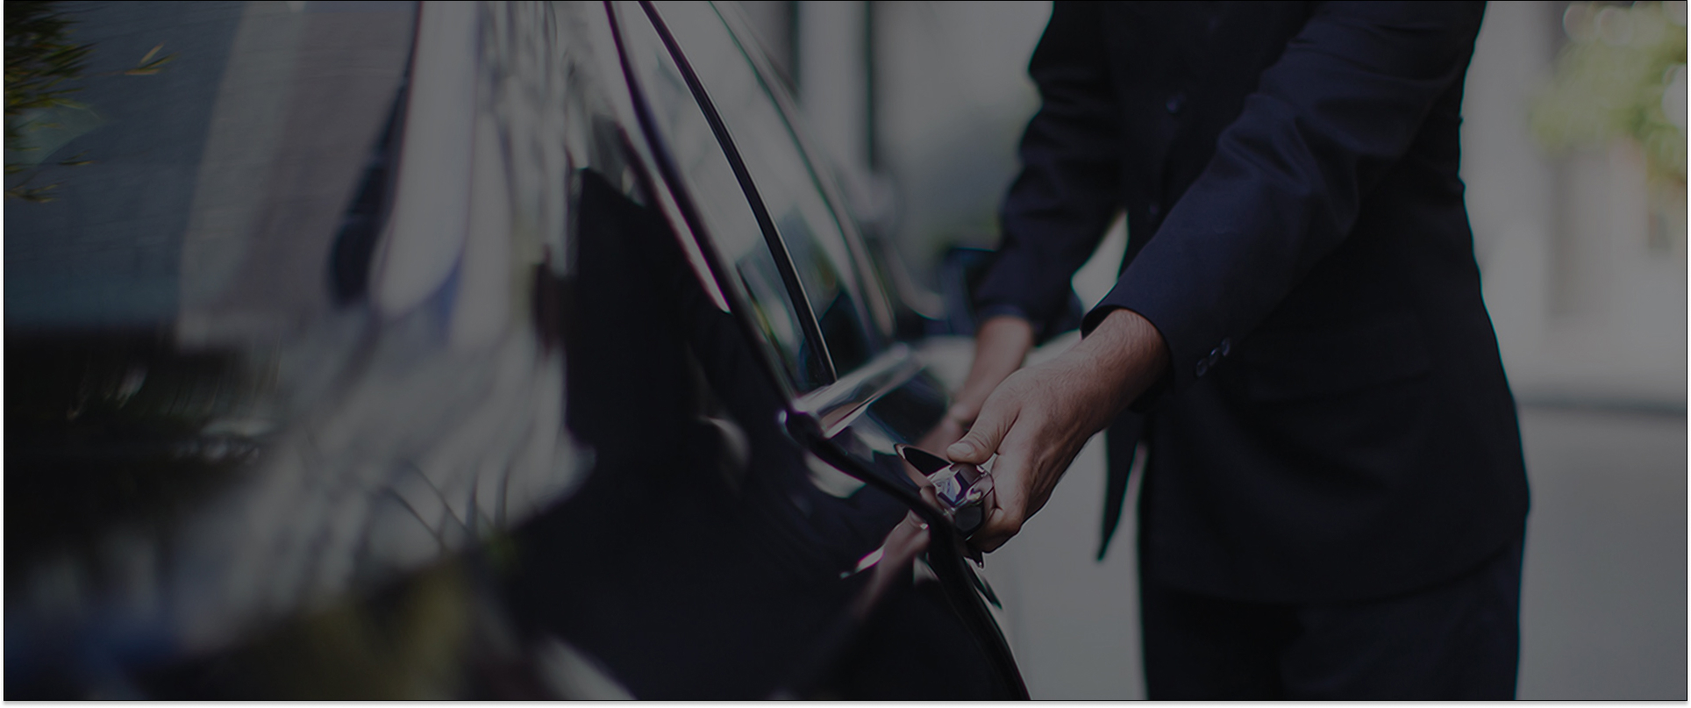
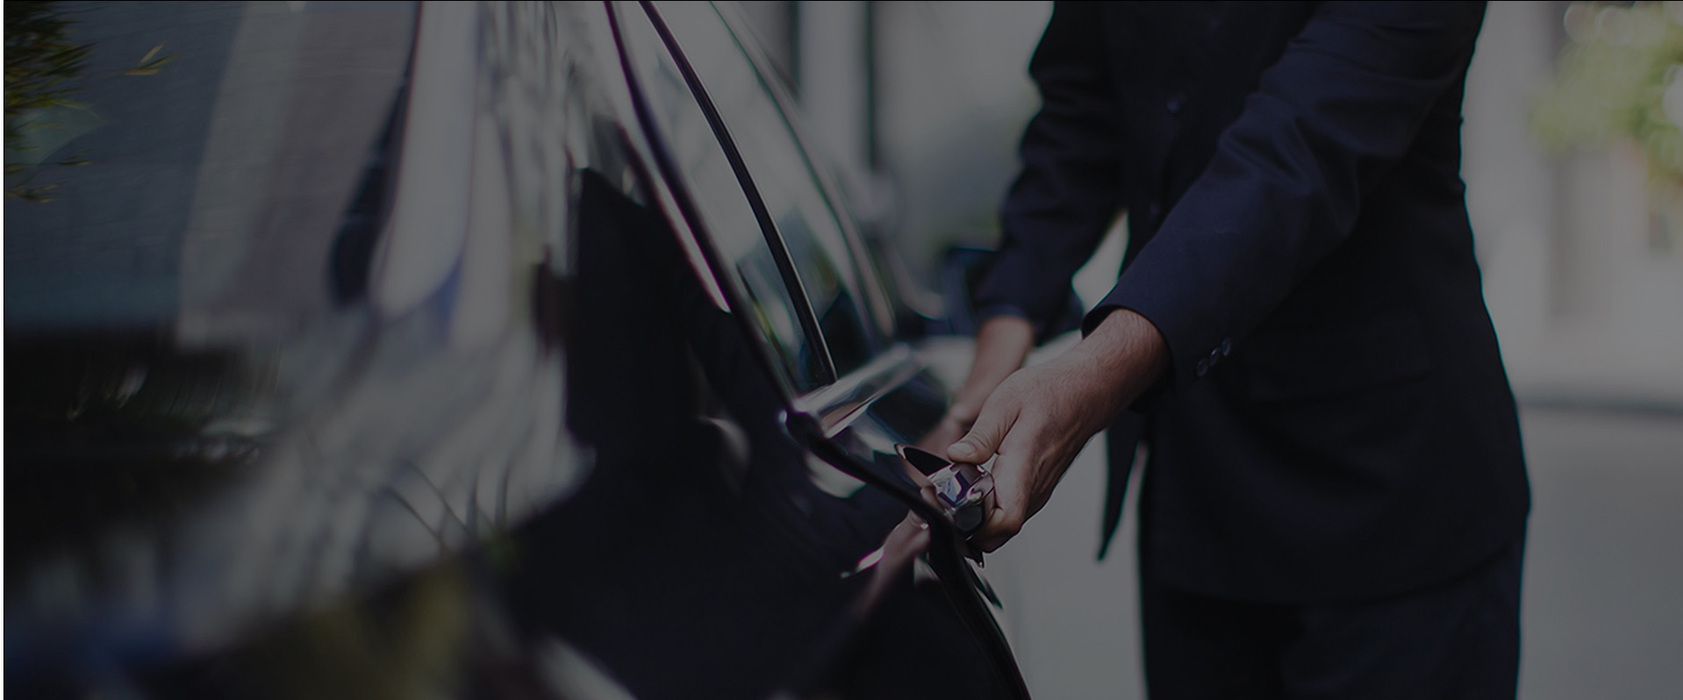
Изменил главный экран

diff --git a/css/style.min.css b/css/style.min.css
@@ -1,2 +1,2 @@
-*{font-family:'Roboto', sans-serif;margin:0;padding:0}body{max-width:100%}header{max-width:100%;position:relative}nav{height:50px;background:#212121;position:fixed;width:100%;z-index:2}.menu{display:-webkit-box;display:-ms-flexbox;display:flex;-webkit-box-pack:justify;-ms-flex-pack:justify;justify-content:space-between;padding:13px 70px;margin:0;list-style-type:none}.menu_link{font-weight:300;font-size:15px;color:#FFFFFF;text-decoration:none}.menu_link:hover{color:grey}.menu__item{border-right:2px dotted black;padding-right:28px}.menu__item:last-child{border-right:none}.hamburger{display:none}.subheader{height:134px;background-color:rgba(0,0,0,0.6);position:absolute;width:100%;padding-top:50px}.subheader_ref{display:block;font-style:normal;font-weight:normal;font-size:22px;line-height:12px;text-transform:uppercase;color:#FFFFFF;text-align:right;text-decoration:none;cursor:pointer;margin-top:7px}.subheader_ref:hover{color:#1EACC7}.subheader_logo{display:block;max-width:100%;margin-top:17px}.subheader_official{font-weight:200;font-size:13px;color:#FFFFFF;opacity:.5;margin-top:4px}.subheader_small{display:none}.subheader_call{font-weight:300;font-size:12px;text-align:right;color:#FFFFFF;margin-top:23px}.subheader_btn,.btn{width:172px;height:46px;margin-top:19px;background:-webkit-gradient(linear, left bottom, left top, from(#1EACC7), to(#4CE2FF));background:linear-gradient(0deg, #1EACC7 0%, #4CE2FF 100%);-webkit-box-shadow:inset 0px -3px 0px rgba(0,0,0,0.12);box-shadow:inset 0px -3px 0px rgba(0,0,0,0.12);border:none;border-radius:4px;font-style:normal;font-weight:normal;font-size:14px;line-height:46px;text-transform:uppercase;color:#FFFFFF;text-shadow:1px 1px 0px rgba(0,0,0,0.21);outline:none}.btn:hover{background:none;background-color:#fff;-webkit-transition:.5s ease;transition:.5s ease;color:#1EACC7}.promo{min-height:800px;background:url("../img/uber_bg.jpg") center center/cover no-repeat;padding:150px 0 185px 0}.promo_header{font-weight:900;font-size:60px;line-height:60px;text-align:center;text-transform:uppercase;color:#FFFFFF}.promo_subheader{margin-top:20px;font-weight:bold;font-size:36px;line-height:36px;text-align:center;text-transform:uppercase;color:#FFFFFF}.promo_text{font-style:normal;font-weight:normal;font-size:18px;line-height:24px;text-align:center;color:#FFFFFF;margin-top:16px}.promo_btn{margin:0 auto;margin-top:116px;width:259px;height:63px;font-size:18px;display:block}.title{margin-top:32px;font-style:normal;font-weight:bold;font-size:38px;text-align:center;text-transform:uppercase;color:#222222}.title_black{color:#FFFFFF;margin-top:37px}.subtitle{color:#212121;font-size:17px;font-weight:normal;text-align:center;margin-top:19px}.subtitle_black{margin-top:0px;color:#FFFFFF}.label{display:block;margin:0 auto;width:115px;height:27px;background:#000000;font-style:normal;font-weight:normal;font-size:11px;text-transform:uppercase;color:#FFFFFF;border:none;text-align:center;line-height:27px}.label_black{background:#fff;color:#070716}.adv{padding:20px 0 65px 0;width:100%}.adv .container{max-width:1064px;margin:0 auto;margin-top:16px;display:-webkit-box;display:-ms-flexbox;display:flex;-webkit-box-align:center;-ms-flex-align:center;align-items:center}.adv .col-md-2{display:-webkit-box;display:-ms-flexbox;display:flex;-webkit-box-pack:center;-ms-flex-pack:center;justify-content:center;-webkit-box-align:center;-ms-flex-align:center;align-items:center;margin-top:26px}.adv_item{background:#1EACC7;width:116px;height:116px;border-radius:50%;display:-webkit-box;display:-ms-flexbox;display:flex;-webkit-box-pack:center;-ms-flex-pack:center;justify-content:center;-webkit-box-align:center;-ms-flex-align:center;align-items:center;-ms-flex-item-align:center;align-self:center}.adv .adv_text{margin-top:26px;font-weight:300;font-size:15px;line-height:21px;color:#202020}.adv .adv_text span{font-weight:normal;font-size:17px;line-height:21px;color:#1EACC7}.mobile{min-height:864px;padding:46px 0 80px 0;background:url("../img/mobile_bg.png") center center/cover no-repeat}.mobile .row{margin-top:32px}.mobile_item{width:320px;height:280px;margin:0 auto;margin-bottom:19px;padding-top:92px;position:relative}.mobile_item_1{background:url("../img/card1.jpg")}.mobile_item_2{background:url("../img/card2.jpg")}.mobile_item_3{background:url("../img/card3.jpg")}.mobile_item_4{background:url("../img/card4.jpg")}.mobile_item_5{background:url("../img/card5.jpg")}.mobile_item_6{background:url("../img/card6.jpg")}.mobile_item_subtitle{font-size:24px;line-height:31px;text-align:center;text-transform:uppercase;color:#fff}.mobile_item_plus{display:-webkit-box;display:-ms-flexbox;display:flex;-webkit-box-pack:center;-ms-flex-pack:center;justify-content:center;-webkit-box-align:center;-ms-flex-align:center;align-items:center;width:29px;height:29px;background:#000000;border-radius:50%;position:absolute;bottom:34px;left:50%;-webkit-transform:translateX(-50%);transform:translateX(-50%);cursor:pointer}.mobile_item_plus:before{content:' ';display:block;width:14px;height:2px;background-color:#1EACC7;-webkit-transform:translateX(1px);transform:translateX(1px)}.mobile_item_plus::after{content:' ';display:block;width:2px;height:14px;background-color:#1EACC7;-webkit-transform:translateX(-7px);transform:translateX(-7px)}.mobile_item_plus:hover::before,.mobile_item_plus:hover::after{background-color:#fff}.car{min-height:900px;background:linear-gradient(45deg, #222, #222) left top/100% 500px no-repeat,url("../img/mobile_bg.png") center bottom/cover no-repeat;padding-top:57px}.car img{display:block;position:relative;margin:54px auto 0 auto;width:759px;height:auto;max-width:100%}.condition{padding:66px 0 87px 0}.condition .title{margin:40px auto 48px 0;line-height:38px}.condition_list{padding-right:58px}.condition_list_title{font-weight:normal;font-size:22px;line-height:24px;color:#1CA8C3;margin-bottom:20px;padding-top:60px;margin-top:-60px}.condition_list_title_red{color:#FF5656}.condition_list p{font-weight:300;font-size:17px;line-height:24px;color:#1CA8C3;margin-bottom:60px;margin-top:15px}.condition_list_menu{list-style-type:none;padding:0;padding-right:0px;padding-left:48px;margin:0;font-weight:300;font-size:17px;line-height:17px;color:#222222;position:relative}.condition_list_menu li{line-height:28px}.condition_list_menu li::before{content:'';display:block;width:21px;height:20px;background:url("../icons/check_blue.svg") center center/cover no-repeat;position:absolute;left:18px;-webkit-transform:translateY(5px);transform:translateY(5px)}.condition_list_menu_red li::before{background:url("../icons/check_red.svg") center center/cover no-repeat}.world{background-color:#080816}.world .container{background:url("../img/world_bg.jpg") center center/cover no-repeat;min-height:720px;padding:47px 0 50px 0;text-align:center}.world .container a{display:inline-block;color:#1FBAD6;text-decoration:none;margin:0 auto;text-transform:uppercase;margin-top:485px}.footer{display:-webkit-box;display:-ms-flexbox;display:flex;-webkit-box-pack:justify;-ms-flex-pack:justify;justify-content:space-between;min-height:148px;max-width:100%;background:#FFFFFF;-ms-flex-wrap:wrap;flex-wrap:wrap}.footer a{display:block;text-decoration:none}.footer_ss{display:-webkit-box;display:-ms-flexbox;display:flex;-webkit-box-pack:start;-ms-flex-pack:start;justify-content:start;-webkit-box-align:center;-ms-flex-align:center;align-items:center;width:330px}.footer_ss a:first-child{margin-left:20px}.footer_ss .ring{width:35px;height:35px;border-radius:100%;background-color:#070716;display:-webkit-box;display:-ms-flexbox;display:flex;-webkit-box-pack:center;-ms-flex-pack:center;justify-content:center;-webkit-box-align:center;-ms-flex-align:center;align-items:center;margin-left:6px}.footer_ss .ring span,.footer_ss .ring i{color:#fff;font-style:20px}.footer_link{display:-webkit-box;display:-ms-flexbox;display:flex;-webkit-box-pack:justify;-ms-flex-pack:justify;justify-content:space-between;-ms-flex-item-align:center;align-self:center;width:325px}.footer_link a:last-child{margin-right:25px}.footer_content{width:calc( 100% - 700px);display:-webkit-box;display:-ms-flexbox;display:flex;-webkit-box-orient:vertical;-webkit-box-direction:normal;-ms-flex-direction:column;flex-direction:column;-webkit-box-align:center;-ms-flex-align:center;align-items:center}.footer_content .line{width:301px;height:7px;background:#1FBAD6;margin-top:12px}.footer_content_title{display:-webkit-box;display:-ms-flexbox;display:flex;-webkit-box-orient:horizontal;-webkit-box-direction:normal;-ms-flex-direction:row;flex-direction:row;width:365px;-webkit-box-pack:justify;-ms-flex-pack:justify;justify-content:space-between;margin-top:32px}.footer_content_title a{font-weight:300;font-size:15px;text-transform:uppercase;color:#070716}.footer_content_subtitle{display:-webkit-box;display:-ms-flexbox;display:flex;-webkit-box-orient:horizontal;-webkit-box-direction:normal;-ms-flex-direction:row;flex-direction:row;-webkit-box-pack:justify;-ms-flex-pack:justify;justify-content:space-between;width:390px;margin-top:13px}.footer_content_subtitle a{font-weight:300;font-size:11px;text-transform:uppercase;color:#999999}.footer_content_language{font-weight:normal;font-size:11px;text-transform:uppercase;color:#1FBAD6;margin-top:15px}@media (max-width: 1199px){.menu_link{font-size:13px}.menu_item{padding-right:20px}.promo{min-height:0;padding:150px 0 100px 0}.promo_header{font-size:50px}.promo_subheader{font-size:30px}.promo_btn{margin-top:65px}.mobile_item{width:300px}.footer_link a{margin-bottom:10px;text-align:center}.footer_link a:last-child{margin-right:0}.footer_link{-webkit-box-orient:vertical;-webkit-box-direction:normal;-ms-flex-direction:column;flex-direction:column}.world .container{min-height:0}.world .container a{margin-top:300px}}@media (max-width: 991px){.menu{padding:13px 0}.menu_link{font-size:12px}.subheader_logo{margin-top:7px}.promo_header{font-size:38px}.mobile_item{width:200px;height:200px;padding:40px 5px 0 5px}.adv_item{-ms-flex-item-align:baseline;align-self:baseline;width:100px;height:100px}.car{min-height:0}.world .container a{margin-top:80px}.footer{-ms-flex-wrap:nowrap;flex-wrap:nowrap}.footer_ss{width:20%}.footer_link{width:20%}}@media (max-width: 767px){.menu{position:fixed;-webkit-box-orient:vertical;-webkit-box-direction:normal;-ms-flex-direction:column;flex-direction:column;-webkit-box-pack:center;-ms-flex-pack:center;justify-content:center;-webkit-box-align:center;-ms-flex-align:center;align-items:center;top:0;left:-100%;width:50%;height:100vh;padding:20px 15px;background-color:rgba(0,0,0,0.8);-webkit-transition:0.6s all;transition:0.6s all}.menu_active{left:0}.menu_item{padding-right:0;border:none;margin:10px 0;text-align:center;width:100%}.menu_link{display:block;font-size:20px}.hamburger{display:block;position:absolute;right:10px;top:50%;-webkit-transform:translateY(-50%);transform:translateY(-50%);width:20px;height:12px}.hamburger span{display:block;width:100%;height:2px;background-color:#fff;margin-bottom:2px;-webkit-transition:0.5s all;transition:0.5s all}.hamburger_active span{margin-bottom:-2px}.hamburger_active span:nth-child(1){-webkit-transform:translateY(3px) rotate(-45deg);transform:translateY(3px) rotate(-45deg)}.hamburger_active span:nth-child(2){display:none}.hamburger_active span:nth-child(3){-webkit-transform:translateY(3px) rotate(45deg);transform:translateY(3px) rotate(45deg)}}@media (max-width: 767px){.subheader{height:112px}.subheader_mini{display:none}.subheader_small{display:-webkit-box;display:-ms-flexbox;display:flex;-webkit-box-orient:vertical;-webkit-box-direction:normal;-ms-flex-direction:column;flex-direction:column;-ms-flex-pack:distribute;justify-content:space-around;height:62px}.subheader_official,.subheader_call{display:none}.subheader_ref{font-size:12px;text-align:center}.subheader_logo img{width:100%;margin-top:11px}.subheader_btn{display:block;margin:0 auto;width:108px;height:21px;font-size:10px;line-height:0;margin-top:-5px}.promo{padding-bottom:50px}.promo__btn{margin-top:35px}.footer{-webkit-box-orient:vertical;-webkit-box-direction:normal;-ms-flex-direction:column;flex-direction:column;-webkit-box-align:center;-ms-flex-align:center;align-items:center}.footer_ss{-webkit-box-pack:center;-ms-flex-pack:center;justify-content:center;width:80%;margin-top:15px}.footer_ss a:first-child{margin-left:0}.footer_content{-webkit-box-ordinal-group:0;-ms-flex-order:-1;order:-1;width:90%}.footer_content_title{-webkit-box-orient:horizontal;-webkit-box-direction:normal;-ms-flex-direction:row;flex-direction:row;-ms-flex-pack:distribute;justify-content:space-around;width:100%}.footer_content_subtitle{-ms-flex-wrap:wrap;flex-wrap:wrap;-webkit-box-orient:horizontal;-webkit-box-direction:normal;-ms-flex-direction:row;flex-direction:row;-ms-flex-pack:distribute;justify-content:space-around;width:100%}.footer_content_subtitle a{margin:0 5px}.footer_link{-webkit-box-orient:horizontal;-webkit-box-direction:normal;-ms-flex-direction:row;flex-direction:row;width:85%;margin-top:15px}}@media (max-width: 450px){.menu_active{width:85%}}@media (max-width: 360px){.footer_link{width:95%}.footer_content_title a{font-size:13px}.footer_content_subtitle{-webkit-box-pack:center;-ms-flex-pack:center;justify-content:center}}
+*{font-family:'Roboto', sans-serif;margin:0;padding:0}body{max-width:100%}header{max-width:100%;position:relative}nav{height:50px;background:#212121;position:fixed;width:100%;z-index:2}.menu{display:-webkit-box;display:-ms-flexbox;display:flex;-webkit-box-pack:justify;-ms-flex-pack:justify;justify-content:space-between;padding:13px 70px;margin:0;list-style-type:none}.menu_link{font-weight:300;font-size:15px;color:#FFFFFF;text-decoration:none}.menu_link:hover{color:grey}.menu__item{border-right:2px dotted black;padding-right:28px}.menu__item:last-child{border-right:none}.hamburger{display:none}.subheader{height:134px;background-color:rgba(0,0,0,0.6);position:absolute;width:100%;padding-top:50px}.subheader_ref{display:block;font-style:normal;font-weight:normal;font-size:22px;line-height:12px;text-transform:uppercase;color:#FFFFFF;text-align:right;text-decoration:none;cursor:pointer;margin-top:7px}.subheader_ref:hover{color:#1EACC7}.subheader_logo{display:block;max-width:100%;margin-top:17px}.subheader_official{font-weight:200;font-size:13px;color:#FFFFFF;opacity:.5;margin-top:4px}.subheader_small{display:none}.subheader_call{font-weight:300;font-size:12px;text-align:right;color:#FFFFFF;margin-top:23px}.subheader_btn,.btn{width:172px;height:46px;margin-top:19px;background:-webkit-gradient(linear, left bottom, left top, from(#1EACC7), to(#4CE2FF));background:linear-gradient(0deg, #1EACC7 0%, #4CE2FF 100%);-webkit-box-shadow:inset 0px -3px 0px rgba(0,0,0,0.12);box-shadow:inset 0px -3px 0px rgba(0,0,0,0.12);border:none;border-radius:4px;font-style:normal;font-weight:normal;font-size:14px;line-height:46px;text-transform:uppercase;color:#FFFFFF;text-shadow:1px 1px 0px rgba(0,0,0,0.21);outline:none}.btn:hover{background:none;background-color:#fff;-webkit-transition:.5s ease;transition:.5s ease;color:#1EACC7}.promo{min-height:100vh;background:url("../img/uber_bg.jpg") center center/cover no-repeat;padding:230px 0 105px 0}.promo_header{font-weight:900;font-size:60px;line-height:60px;text-align:center;text-transform:uppercase;color:#FFFFFF}.promo_subheader{margin-top:20px;font-weight:bold;font-size:36px;line-height:36px;text-align:center;text-transform:uppercase;color:#FFFFFF}.promo_text{font-style:normal;font-weight:normal;font-size:18px;line-height:24px;text-align:center;color:#FFFFFF;margin-top:16px}.promo_btn{margin:0 auto;margin-top:116px;width:259px;height:63px;font-size:18px;display:block}.title{margin-top:32px;font-style:normal;font-weight:bold;font-size:38px;text-align:center;text-transform:uppercase;color:#222222}.title_black{color:#FFFFFF;margin-top:37px}.subtitle{color:#212121;font-size:17px;font-weight:normal;text-align:center;margin-top:19px}.subtitle_black{margin-top:0px;color:#FFFFFF}.label{display:block;margin:0 auto;width:115px;height:27px;background:#000000;font-style:normal;font-weight:normal;font-size:11px;text-transform:uppercase;color:#FFFFFF;border:none;text-align:center;line-height:27px}.label_black{background:#fff;color:#070716}.adv{padding:20px 0 65px 0;width:100%}.adv .container{max-width:1064px;margin:0 auto;margin-top:16px;display:-webkit-box;display:-ms-flexbox;display:flex;-webkit-box-align:center;-ms-flex-align:center;align-items:center}.adv .col-md-2{display:-webkit-box;display:-ms-flexbox;display:flex;-webkit-box-pack:center;-ms-flex-pack:center;justify-content:center;-webkit-box-align:center;-ms-flex-align:center;align-items:center;margin-top:26px}.adv_item{background:#1EACC7;width:116px;height:116px;border-radius:50%;display:-webkit-box;display:-ms-flexbox;display:flex;-webkit-box-pack:center;-ms-flex-pack:center;justify-content:center;-webkit-box-align:center;-ms-flex-align:center;align-items:center;-ms-flex-item-align:center;align-self:center}.adv .adv_text{margin-top:26px;font-weight:300;font-size:15px;line-height:21px;color:#202020}.adv .adv_text span{font-weight:normal;font-size:17px;line-height:21px;color:#1EACC7}.mobile{min-height:864px;padding:46px 0 80px 0;background:url("../img/mobile_bg.png") center center/cover no-repeat}.mobile .row{margin-top:32px}.mobile_item{width:320px;height:280px;margin:0 auto;margin-bottom:19px;padding-top:92px;position:relative}.mobile_item_1{background:url("../img/card1.jpg")}.mobile_item_2{background:url("../img/card2.jpg")}.mobile_item_3{background:url("../img/card3.jpg")}.mobile_item_4{background:url("../img/card4.jpg")}.mobile_item_5{background:url("../img/card5.jpg")}.mobile_item_6{background:url("../img/card6.jpg")}.mobile_item_subtitle{font-size:24px;line-height:31px;text-align:center;text-transform:uppercase;color:#fff}.mobile_item_plus{display:-webkit-box;display:-ms-flexbox;display:flex;-webkit-box-pack:center;-ms-flex-pack:center;justify-content:center;-webkit-box-align:center;-ms-flex-align:center;align-items:center;width:29px;height:29px;background:#000000;border-radius:50%;position:absolute;bottom:34px;left:50%;-webkit-transform:translateX(-50%);transform:translateX(-50%);cursor:pointer}.mobile_item_plus:before{content:' ';display:block;width:14px;height:2px;background-color:#1EACC7;-webkit-transform:translateX(1px);transform:translateX(1px)}.mobile_item_plus::after{content:' ';display:block;width:2px;height:14px;background-color:#1EACC7;-webkit-transform:translateX(-7px);transform:translateX(-7px)}.mobile_item_plus:hover::before,.mobile_item_plus:hover::after{background-color:#fff}.car{min-height:900px;background:linear-gradient(45deg, #222, #222) left top/100% 500px no-repeat,url("../img/mobile_bg.png") center bottom/cover no-repeat;padding-top:57px}.car img{display:block;position:relative;margin:54px auto 0 auto;width:759px;height:auto;max-width:100%}.condition{padding:66px 0 87px 0}.condition .title{margin:40px auto 48px 0;line-height:38px}.condition_list{padding-right:58px}.condition_list_title{font-weight:normal;font-size:22px;line-height:24px;color:#1CA8C3;margin-bottom:20px;padding-top:60px;margin-top:-60px}.condition_list_title_red{color:#FF5656}.condition_list p{font-weight:300;font-size:17px;line-height:24px;color:#1CA8C3;margin-bottom:60px;margin-top:15px}.condition_list_menu{list-style-type:none;padding:0;padding-right:0px;padding-left:48px;margin:0;font-weight:300;font-size:17px;line-height:17px;color:#222222;position:relative}.condition_list_menu li{line-height:28px}.condition_list_menu li::before{content:'';display:block;width:21px;height:20px;background:url("../icons/check_blue.svg") center center/cover no-repeat;position:absolute;left:18px;-webkit-transform:translateY(5px);transform:translateY(5px)}.condition_list_menu_red li::before{background:url("../icons/check_red.svg") center center/cover no-repeat}.world{background-color:#080816}.world .container{background:url("../img/world_bg.jpg") center center/cover no-repeat;min-height:720px;padding:47px 0 50px 0;text-align:center}.world .container a{display:inline-block;color:#1FBAD6;text-decoration:none;margin:0 auto;text-transform:uppercase;margin-top:485px}.footer{display:-webkit-box;display:-ms-flexbox;display:flex;-webkit-box-pack:justify;-ms-flex-pack:justify;justify-content:space-between;min-height:148px;max-width:100%;background:#FFFFFF;-ms-flex-wrap:wrap;flex-wrap:wrap}.footer a{display:block;text-decoration:none}.footer_ss{display:-webkit-box;display:-ms-flexbox;display:flex;-webkit-box-pack:start;-ms-flex-pack:start;justify-content:start;-webkit-box-align:center;-ms-flex-align:center;align-items:center;width:330px}.footer_ss a:first-child{margin-left:20px}.footer_ss .ring{width:35px;height:35px;border-radius:100%;background-color:#070716;display:-webkit-box;display:-ms-flexbox;display:flex;-webkit-box-pack:center;-ms-flex-pack:center;justify-content:center;-webkit-box-align:center;-ms-flex-align:center;align-items:center;margin-left:6px}.footer_ss .ring span,.footer_ss .ring i{color:#fff;font-style:20px}.footer_link{display:-webkit-box;display:-ms-flexbox;display:flex;-webkit-box-pack:justify;-ms-flex-pack:justify;justify-content:space-between;-ms-flex-item-align:center;align-self:center;width:325px}.footer_link a:last-child{margin-right:25px}.footer_content{width:calc( 100% - 700px);display:-webkit-box;display:-ms-flexbox;display:flex;-webkit-box-orient:vertical;-webkit-box-direction:normal;-ms-flex-direction:column;flex-direction:column;-webkit-box-align:center;-ms-flex-align:center;align-items:center}.footer_content .line{width:301px;height:7px;background:#1FBAD6;margin-top:12px}.footer_content_title{display:-webkit-box;display:-ms-flexbox;display:flex;-webkit-box-orient:horizontal;-webkit-box-direction:normal;-ms-flex-direction:row;flex-direction:row;width:365px;-webkit-box-pack:justify;-ms-flex-pack:justify;justify-content:space-between;margin-top:32px}.footer_content_title a{font-weight:300;font-size:15px;text-transform:uppercase;color:#070716}.footer_content_subtitle{display:-webkit-box;display:-ms-flexbox;display:flex;-webkit-box-orient:horizontal;-webkit-box-direction:normal;-ms-flex-direction:row;flex-direction:row;-webkit-box-pack:justify;-ms-flex-pack:justify;justify-content:space-between;width:390px;margin-top:13px}.footer_content_subtitle a{font-weight:300;font-size:11px;text-transform:uppercase;color:#999999}.footer_content_language{font-weight:normal;font-size:11px;text-transform:uppercase;color:#1FBAD6;margin-top:15px}@media (max-width: 1199px){.menu_link{font-size:13px}.menu_item{padding-right:20px}.promo{min-height:0;padding:150px 0 100px 0}.promo_header{font-size:50px}.promo_subheader{font-size:30px}.promo_btn{margin-top:65px}.mobile_item{width:300px}.footer_link a{margin-bottom:10px;text-align:center}.footer_link a:last-child{margin-right:0}.footer_link{-webkit-box-orient:vertical;-webkit-box-direction:normal;-ms-flex-direction:column;flex-direction:column}.world .container{min-height:0}.world .container a{margin-top:300px}}@media (max-width: 991px){.menu{padding:13px 0}.menu_link{font-size:12px}.subheader_logo{margin-top:7px}.promo_header{font-size:38px}.mobile_item{width:200px;height:200px;padding:40px 5px 0 5px}.adv_item{-ms-flex-item-align:baseline;align-self:baseline;width:100px;height:100px}.car{min-height:0}.world .container a{margin-top:80px}.footer{-ms-flex-wrap:nowrap;flex-wrap:nowrap}.footer_ss{width:20%}.footer_link{width:20%}}@media (max-width: 767px){.menu{position:fixed;-webkit-box-orient:vertical;-webkit-box-direction:normal;-ms-flex-direction:column;flex-direction:column;-webkit-box-pack:center;-ms-flex-pack:center;justify-content:center;-webkit-box-align:center;-ms-flex-align:center;align-items:center;top:0;left:-100%;width:50%;height:100vh;padding:20px 15px;background-color:rgba(0,0,0,0.8);-webkit-transition:0.6s all;transition:0.6s all}.menu_active{left:0}.menu_item{padding-right:0;border:none;margin:10px 0;text-align:center;width:100%}.menu_link{display:block;font-size:20px}.hamburger{display:block;position:absolute;right:10px;top:50%;-webkit-transform:translateY(-50%);transform:translateY(-50%);width:20px;height:12px}.hamburger span{display:block;width:100%;height:2px;background-color:#fff;margin-bottom:2px;-webkit-transition:0.5s all;transition:0.5s all}.hamburger_active span{margin-bottom:-2px}.hamburger_active span:nth-child(1){-webkit-transform:translateY(3px) rotate(-45deg);transform:translateY(3px) rotate(-45deg)}.hamburger_active span:nth-child(2){display:none}.hamburger_active span:nth-child(3){-webkit-transform:translateY(3px) rotate(45deg);transform:translateY(3px) rotate(45deg)}}@media (max-width: 767px){.subheader{height:112px}.subheader_mini{display:none}.subheader_small{display:-webkit-box;display:-ms-flexbox;display:flex;-webkit-box-orient:vertical;-webkit-box-direction:normal;-ms-flex-direction:column;flex-direction:column;-ms-flex-pack:distribute;justify-content:space-around;height:62px}.subheader_official,.subheader_call{display:none}.subheader_ref{font-size:12px;text-align:center}.subheader_logo img{width:100%;margin-top:11px}.subheader_btn{display:block;margin:0 auto;width:108px;height:21px;font-size:10px;line-height:0;margin-top:-5px}.promo{padding-bottom:50px}.promo__btn{margin-top:35px}.footer{-webkit-box-orient:vertical;-webkit-box-direction:normal;-ms-flex-direction:column;flex-direction:column;-webkit-box-align:center;-ms-flex-align:center;align-items:center}.footer_ss{-webkit-box-pack:center;-ms-flex-pack:center;justify-content:center;width:80%;margin-top:15px}.footer_ss a:first-child{margin-left:0}.footer_content{-webkit-box-ordinal-group:0;-ms-flex-order:-1;order:-1;width:90%}.footer_content_title{-webkit-box-orient:horizontal;-webkit-box-direction:normal;-ms-flex-direction:row;flex-direction:row;-ms-flex-pack:distribute;justify-content:space-around;width:100%}.footer_content_subtitle{-ms-flex-wrap:wrap;flex-wrap:wrap;-webkit-box-orient:horizontal;-webkit-box-direction:normal;-ms-flex-direction:row;flex-direction:row;-ms-flex-pack:distribute;justify-content:space-around;width:100%}.footer_content_subtitle a{margin:0 5px}.footer_link{-webkit-box-orient:horizontal;-webkit-box-direction:normal;-ms-flex-direction:row;flex-direction:row;width:85%;margin-top:15px}}@media (max-width: 450px){.menu_active{width:85%}}@media (max-width: 360px){.footer_link{width:95%}.footer_content_title a{font-size:13px}.footer_content_subtitle{-webkit-box-pack:center;-ms-flex-pack:center;justify-content:center}}
 /*# sourceMappingURL=style.min.css.map */

diff --git a/sass/_general.sass b/sass/_general.sass
@@ -101,9 +101,10 @@ nav
     +btn_hover(.5s, $blue)
 
 .promo
-  min-height: 800px
+  min-height: 100vh
   background: url('../img/uber_bg.jpg') center (center / cover) no-repeat
-  padding: 150px 0 185px 0
+  padding: 230px 0 105px 0
+
 
 .promo_header
   font-weight: 900
